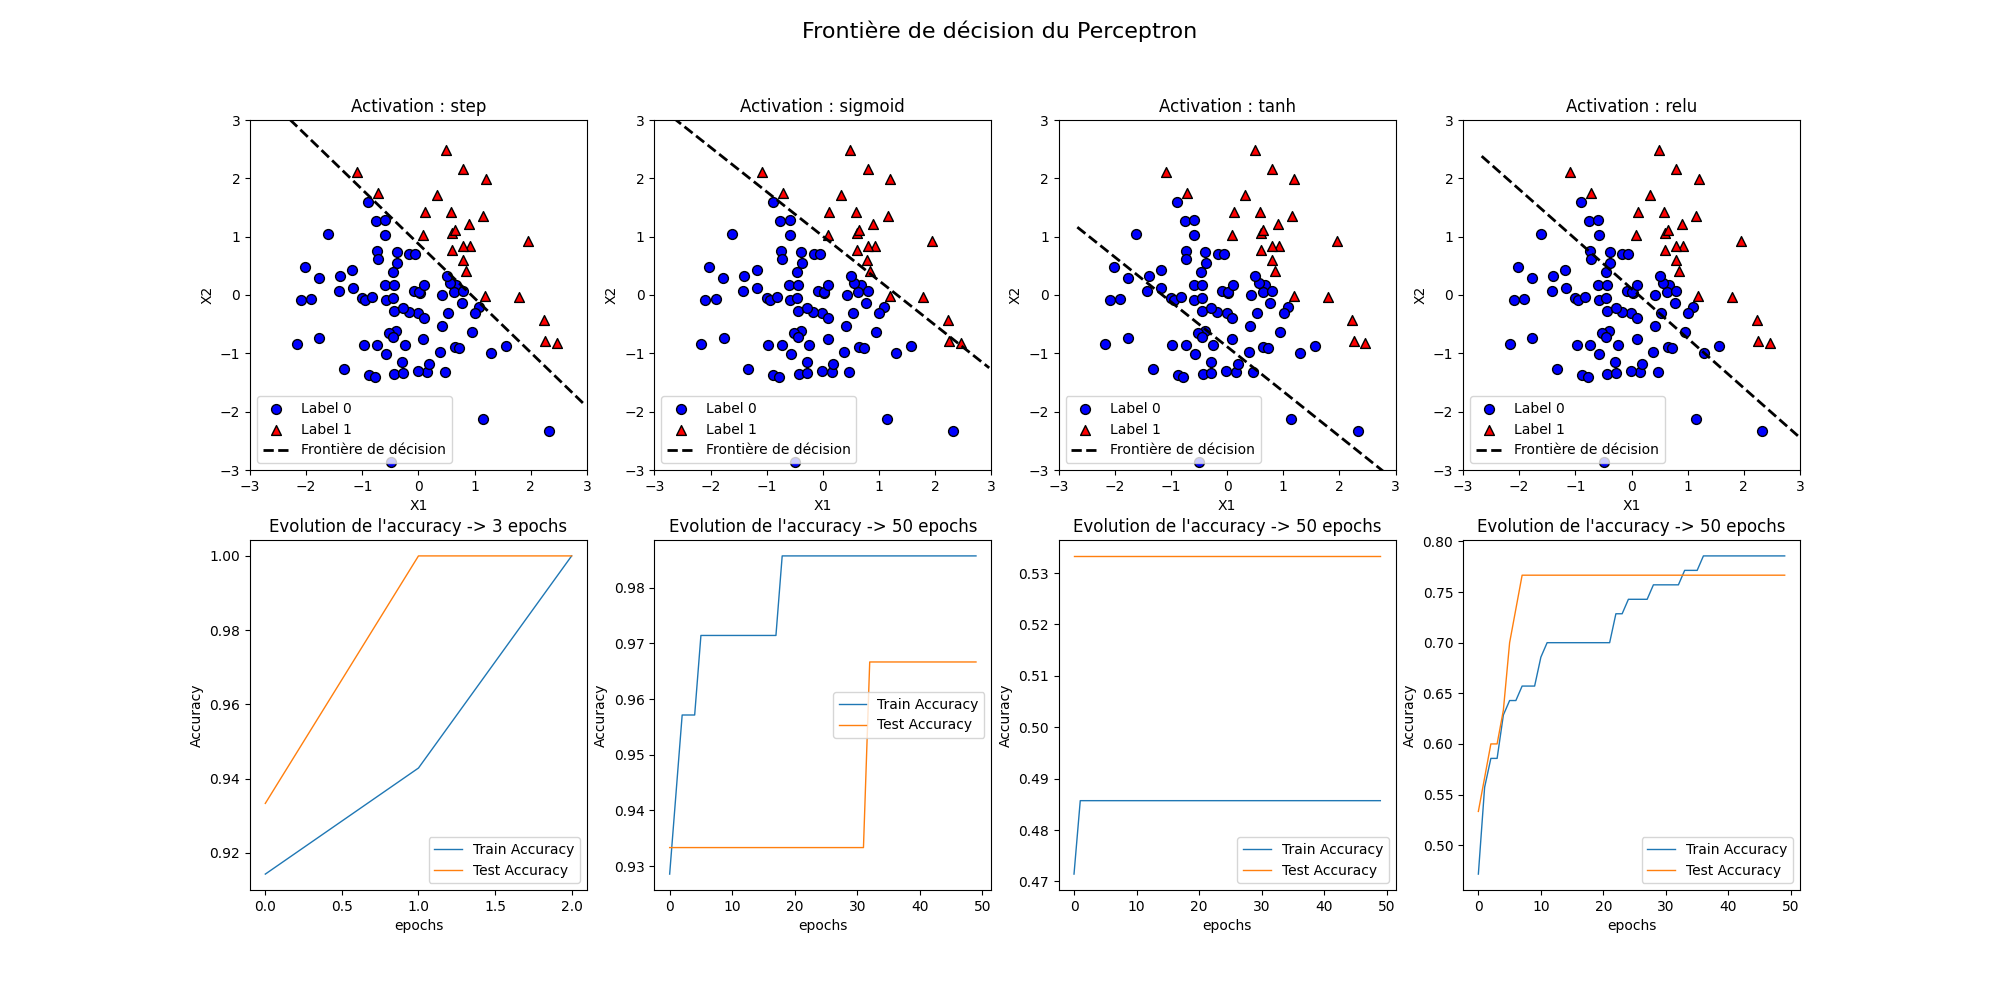
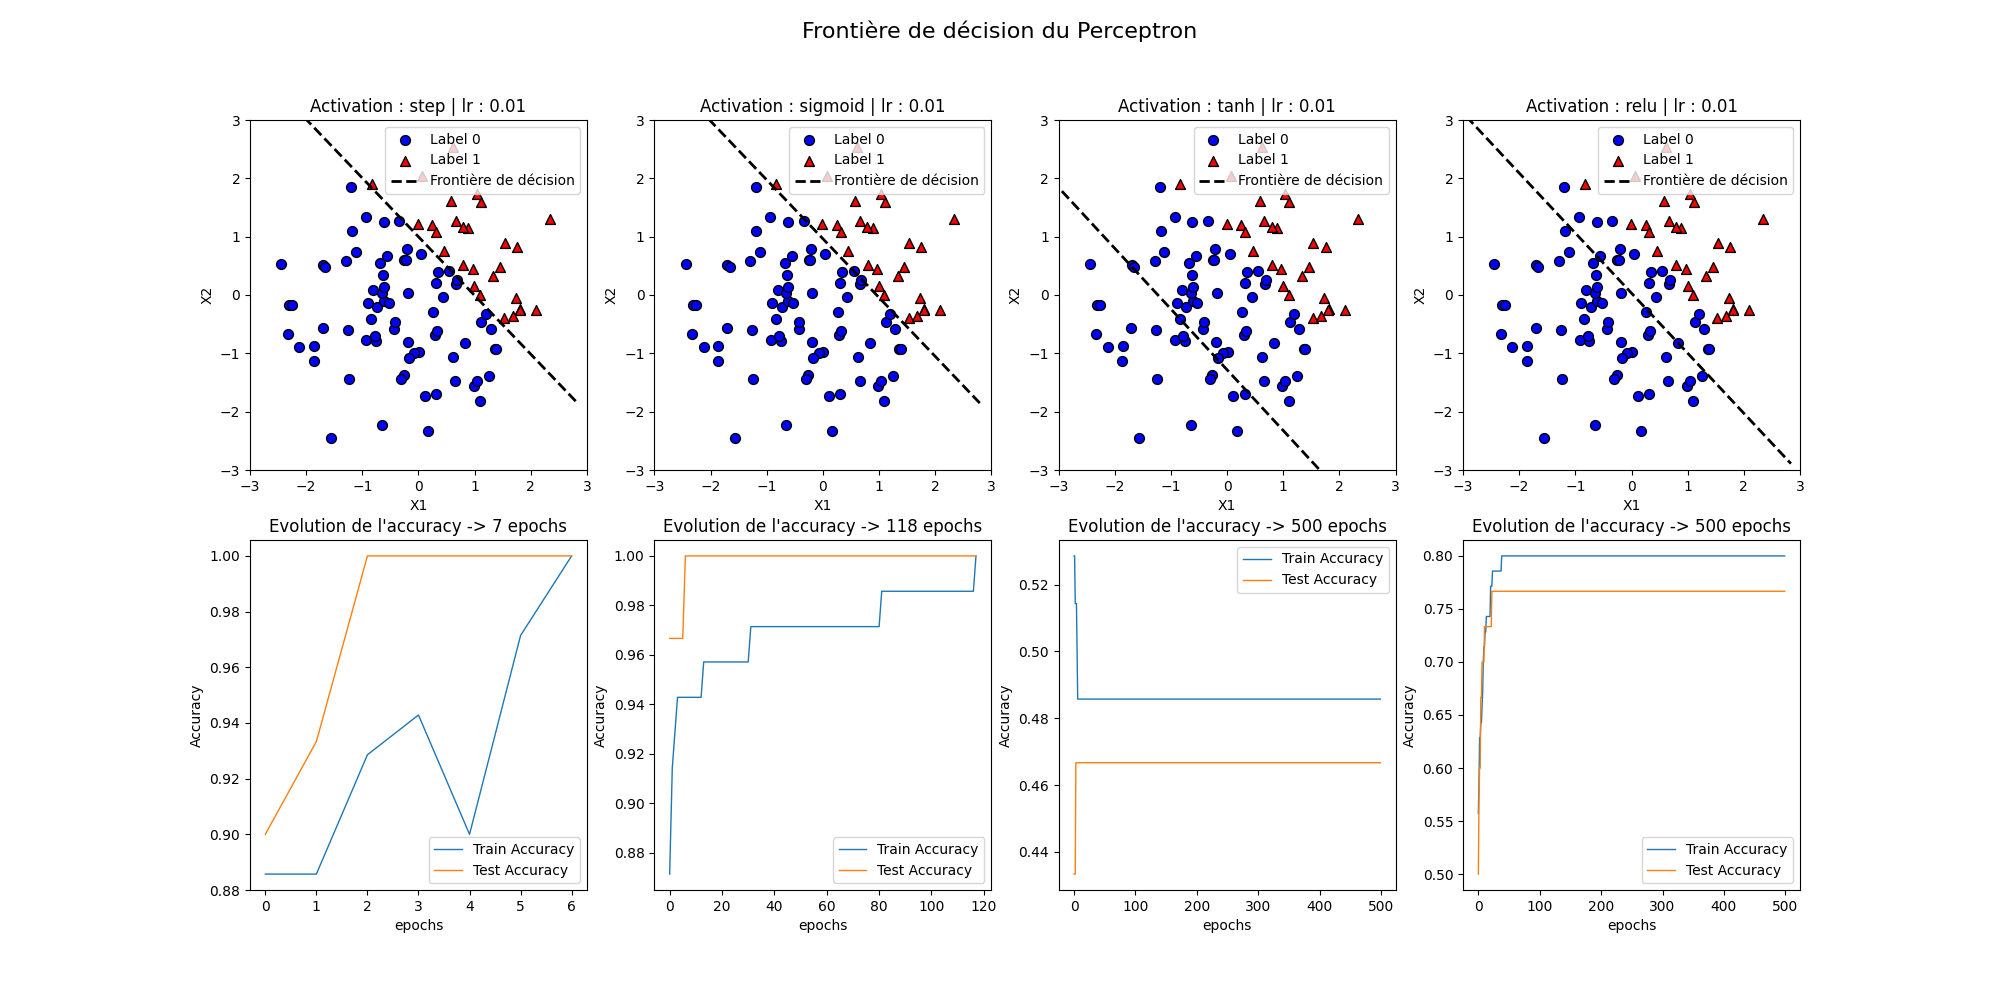
add iris

diff --git a/rendu_5/app.py b/rendu_5/app.py
@@ -13,9 +13,11 @@ from sklearn.preprocessing import StandardScaler
 
 X = np.random.randn(100, 2)
 y = np.where(X[:, 1] + X[:, 0] > 1, 1, 0)
-scaler = StandardScaler()
-X = scaler.fit_transform(X)
-epochs = 50
+#scaler = StandardScaler()
+#X = scaler.fit_transform(X)
+epochs = 500
+alpha = 0.01
+
 activations = ["step", "sigmoid", "tanh", "relu"]
 x_train, x_test, y_train, y_test = train_test_split(X, y, test_size=0.3, random_state=42)
 
@@ -26,7 +28,7 @@ index = 0
 # Perceptron seul
 for a in activations:
 
-    accuracies, test_accuracies = p_seul.fit(x_train, y_train, epochs=epochs, activation=a, alpha=0.01, x_test=x_test, y_test=y_test)
+    accuracies, test_accuracies = p_seul.fit(x_train, y_train, epochs=epochs, activation=a, alpha=alpha, x_test=x_test, y_test=y_test)
 
     w1, w2 = p_seul.W
     b = p_seul.B
@@ -44,7 +46,7 @@ for a in activations:
     axs[index].legend()
     axs[index].set_xlim([-3, 3]) 
     axs[index].set_ylim([-3, 3])
-    axs[index].set_title(f"Activation : {a}")
+    axs[index].set_title(f"Activation : {a} | lr : {alpha}")
 
     # Affichage graphe accuracy
     axs[index+4].plot(range(len(accuracies)), accuracies, linestyle='-', linewidth=1, label="Train Accuracy")
@@ -65,10 +67,11 @@ fig, axs = plt.subplots(ncols=4, nrows=2, figsize=(20, 10))
 axs = axs.flatten()
 index = 0
 epochs = 1000
+alpha = 0.1
 # Perceptron en serie
 for a in activations:
     p_serie = nrn.Neural_network(nb_hidden_layer=1, nb_neural_layer=1, activation=a)
-    train_accuracies, test_accuracies = p_serie.fit(x_train, y_train, epochs=epochs, alpha=0.05, x_test=x_test, y_test=y_test)
+    train_accuracies, test_accuracies = p_serie.fit(x_train, y_train, epochs=epochs, alpha=alpha, x_test=x_test, y_test=y_test)
 
     w1 = p_serie.W[-1][:, 0]
     b = p_serie.b[-1][0, 0]
@@ -93,7 +96,7 @@ for a in activations:
     axs[index].scatter(X[:, 0], X[:, 1], c=y, edgecolor='k')  # Points de données réels
     axs[index].set_xlabel("Feature 1")
     axs[index].set_ylabel("Feature 2")
-    axs[index].set_title(f"Activation : {a}")
+    axs[index].set_title(f"Activation : {a} | lr : {alpha}")
 
     # Affichage graphe accuracy
     axs[index+4].plot(range(len(train_accuracies)), train_accuracies, linestyle='-', linewidth=1, label="Train Accuracy")
@@ -113,10 +116,11 @@ fig, axs = plt.subplots(ncols=4, nrows=2, figsize=(20, 10))
 axs = axs.flatten()
 index = 0
 epochs = 1000
+alpha = 0.1
 # Perceptron en parallele
 for a in activations:
     p_para = nrn.Neural_network(nb_hidden_layer=1, nb_neural_layer=2, activation=a)
-    train_accuracies, test_accuracies = p_para.fit(x_train, y_train, epochs=epochs, alpha=0.05, x_test=x_test, y_test=y_test)
+    train_accuracies, test_accuracies = p_para.fit(x_train, y_train, epochs=epochs, alpha=alpha, x_test=x_test, y_test=y_test)
 
     w1 = p_para.W[-1][:, 0]
     b = p_para.b[-1][0, 0]
@@ -131,7 +135,7 @@ for a in activations:
 
     # Transformer la grille en une liste de points et faire des prédictions
     grid_points = np.c_[xx.ravel(), yy.ravel()]
-    Z = p_serie.predict(grid_points)  # On prédit les classes pour chaque point de la grille
+    Z = p_para.predict(grid_points)  # On prédit les classes pour chaque point de la grille
     
     # Reshape pour correspondre à la grille
     Z = Z.reshape(xx.shape)
@@ -141,7 +145,7 @@ for a in activations:
     axs[index].scatter(X[:, 0], X[:, 1], c=y, edgecolor='k')  # Points de données réels
     axs[index].set_xlabel("Feature 1")
     axs[index].set_ylabel("Feature 2")
-    axs[index].set_title(f"Activation : {a}")
+    axs[index].set_title(f"Activation : {a} | lr : {alpha}")
 
     # Affichage graphe accuracy
     axs[index+4].plot(range(len(train_accuracies)), train_accuracies, linestyle='-', linewidth=1, label="Train Accuracy")
@@ -188,93 +192,148 @@ pca = PCA(n_components=0.95)
 X_pca = pca.fit_transform(X_scaled)
 X = X_pca[:, :2]
 
-epochs = 10
+epochs = 1000
+alpha = 0.1
 
+
+x_train, x_test, y_train, y_test = train_test_split(X, y, test_size=0.3, random_state=42)
+
+p_seul = per.Perceptron()
+fig, axs = plt.subplots(ncols=4, nrows=2, figsize=(20, 10))
+axs = axs.flatten()
+index = 0
 # Perceptron seul
-p = per.Perceptron()
-accuracies = p.fit(X, y, epochs = epochs)
+for a in activations:
 
-w1, w2 = p.W 
-b = p.B
+    accuracies, test_accuracies = p_seul.fit(x_train, y_train, epochs=epochs, activation=a, alpha=alpha, x_test=x_test, y_test=y_test)
 
-# Définition des limites pour x1
-x1_vals = np.array([X[:, 0].min() - 0.5, X[:, 0].max() + 0.5])
+    w1, w2 = p_seul.W
+    b = p_seul.B
 
-# Calcul de x2 en fonction de x1
-x2_vals = -(b + w1 * x1_vals) / w2
+    # Affichage graphe Frontiere de decision
+    x1_vals = np.array([X[:, 0].min() - 0.5, X[:, 0].max() + 0.5])
+    x2_vals = -(b + w1 * x1_vals) / w2
 
+    axs[index].scatter(X[y == 0, 0], X[y == 0, 1], color='blue', edgecolor='k', marker='o', s=50, label='Label 0')
+    axs[index].scatter(X[y == 1, 0], X[y == 1, 1], color='red', edgecolor='k', marker='^', s=50, label='Label 1')
 
-plt.scatter(X[y == 0, 0], X[y == 0, 1], color='blue', edgecolor='k', marker='o', s=50, label='Label 0')
-plt.scatter(X[y == 1, 0], X[y == 1, 1], color='red', edgecolor='k', marker='^', s=50, label='Label 1')
+    axs[index].plot(x1_vals, x2_vals, 'k--', linewidth=2, label="Frontière de décision")
+    axs[index].set_xlabel("X1")
+    axs[index].set_ylabel("X2")
+    axs[index].legend()
+    axs[index].set_xlim([-3, 3]) 
+    axs[index].set_ylim([-3, 3])
+    axs[index].set_title(f"Activation : {a} | lr : {alpha}")
 
-plt.plot(x1_vals, x2_vals, 'k--', linewidth=2, label="Frontière de décision")
-plt.xlabel("X1")
-plt.ylabel("X2")
-plt.title("Frontière de décision du Perceptron")
-plt.legend()
-plt.savefig("rendu_5/img/perceptron.png", format="png")
-plt.show()
+    # Affichage graphe accuracy
+    axs[index+4].plot(range(len(accuracies)), accuracies, linestyle='-', linewidth=1, label="Train Accuracy")
+    axs[index+4].plot(range(len(test_accuracies)), test_accuracies, linestyle='-', linewidth=1, label="Test Accuracy")
+    axs[index+4].set_xlabel("epochs")
+    axs[index+4].set_ylabel("Accuracy")
+    axs[index+4].set_title(f"Evolution de l'accuracy -> {len(accuracies)} epochs")
+    axs[index+4].legend()
 
-# Affichage Accuracy evolution
-plt.plot(range(len(accuracies)), accuracies, linestyle='-', linewidth=1, label="Accuracy")
-plt.xlabel("epochs")
-plt.ylabel("Accuracy")
-plt.title(f"Evolution de l'accuracy -> {epochs} epochs")
-plt.legend()
-plt.savefig("rendu_5/img/accuracy.png", format="png")
-plt.show()
-
-# 2 Perceptron en series 
-X_new = p.predict_proba(X).reshape(-1, 1)
-p2 = per.Perceptron()
-p2.fit(X_new, y)
-
-plt.scatter(X_new[y == 0], y[y == 0], color='blue', edgecolor='k', marker='o', s=50, label='Label 0')
-plt.scatter(X_new[y == 1], y[y == 1], color='red', edgecolor='k', marker='^', s=50, label='Label 1')
-
-w0 = p2.W
-b = p2.B
-
-# Définition des limites pour x1
-x_val = -b / w0
-
-plt.axvline(x=x_val, color='red', linestyle='--', label="Frontière de décision")
-
-plt.xlabel("X1")
-plt.ylabel("X2")
-plt.title("Frontière de décision du Perceptron (serie de 2)")
-plt.legend()
-plt.savefig("rendu_5/img/perceptron_serie.png", format="png")
+    index += 1
+fig.suptitle("Frontière de décision du Perceptron", fontsize=16)
+plt.savefig("rendu_5/img/perceptron_simple_activations_iris.png", format="png")
 plt.show()
 
 
-# 2 Perceptron en parallele
-p1 = per.Perceptron()
-p2 = per.Perceptron()
-p3 = per.Perceptron()
-X_1, X_2, y_1, y_2 = train_test_split(X, y, test_size=0.5, random_state=42)
-p1.fit(X_1, y_1, epochs = epochs)
-p2.fit(X_2, y_2, epochs = epochs)
-p3.fit(np.c_[p1.predict_proba(X), p2.predict_proba(X)], y, epochs = epochs)
 
-w1, w2 = p3.W 
-b = p3.B
+fig, axs = plt.subplots(ncols=4, nrows=2, figsize=(20, 10))
+axs = axs.flatten()
+index = 0
+epochs = 1000
+alpha = 0.1
+# Perceptron en serie
+for a in activations:
+    p_serie = nrn.Neural_network(nb_hidden_layer=1, nb_neural_layer=1, activation=a)
+    train_accuracies, test_accuracies = p_serie.fit(x_train, y_train, epochs=epochs, alpha=alpha, x_test=x_test, y_test=y_test)
 
-# Définition des limites pour x1
-x1_vals = np.array([X[:, 0].min() - 0.5, X[:, 0].max() + 0.5])
+    w1 = p_serie.W[-1][:, 0]
+    b = p_serie.b[-1][0, 0]
 
-# Calcul de x2 en fonction de x1
-x2_vals = -(b + w1 * x1_vals) / w2
+    # Définir les limites de la grille
+    x_min, x_max = X[:, 0].min() - 1, X[:, 0].max() + 1
+    y_min, y_max = X[:, 1].min() - 1, X[:, 1].max() + 1
+    
+    # Créer une grille de points
+    xx, yy = np.meshgrid(np.linspace(x_min, x_max, 100), 
+                         np.linspace(y_min, y_max, 100))
+
+    # Transformer la grille en une liste de points et faire des prédictions
+    grid_points = np.c_[xx.ravel(), yy.ravel()]
+    Z = p_serie.predict(grid_points)  # On prédit les classes pour chaque point de la grille
+    
+    # Reshape pour correspondre à la grille
+    Z = Z.reshape(xx.shape)
+
+    # Affichage de la frontière de décision
+    axs[index].contourf(xx, yy, Z, alpha=0.3)  # Coloration des régions de décision
+    axs[index].scatter(X[:, 0], X[:, 1], c=y, edgecolor='k')  # Points de données réels
+    axs[index].set_xlabel("Feature 1")
+    axs[index].set_ylabel("Feature 2")
+    axs[index].set_title(f"Activation : {a} | lr : {alpha}")
+
+    # Affichage graphe accuracy
+    axs[index+4].plot(range(len(train_accuracies)), train_accuracies, linestyle='-', linewidth=1, label="Train Accuracy")
+    axs[index+4].plot(range(len(test_accuracies)), test_accuracies, linestyle='-', linewidth=1, label="Test Accuracy")
+    axs[index+4].set_xlabel("epochs")
+    axs[index+4].set_ylabel("Accuracy")
+    axs[index+4].set_title(f"Evolution de l'accuracy -> {len(train_accuracies)} epochs")
+    axs[index+4].legend()
+
+    index += 1
+fig.suptitle("Frontière de décision | 2 Perceptrons en serie", fontsize=16)
+plt.savefig("rendu_5/img/perceptron_serie_activations_iris.png", format="png")
+plt.show()
 
 
-plt.scatter(X[y == 0, 0], X[y == 0, 1], color='blue', edgecolor='k', marker='o', s=50, label='Label 0')
-plt.scatter(X[y == 1, 0], X[y == 1, 1], color='red', edgecolor='k', marker='^', s=50, label='Label 1')
+fig, axs = plt.subplots(ncols=4, nrows=2, figsize=(20, 10))
+axs = axs.flatten()
+index = 0
+epochs = 1000
+alpha = 0.1
+# Perceptron en parallele
+for a in activations:
+    p_para = nrn.Neural_network(nb_hidden_layer=1, nb_neural_layer=2, activation=a)
+    train_accuracies, test_accuracies = p_para.fit(x_train, y_train, epochs=epochs, alpha=alpha, x_test=x_test, y_test=y_test)
 
-plt.plot(x1_vals, x2_vals, 'k--', linewidth=2, label="Frontière de décision")
-plt.xlabel("X1")
-plt.ylabel("X2")
-plt.title("Frontière de décision de Perceptron 2 en parallele")
-plt.legend()
-plt.savefig("rendu_5/img/perceptron_parallele.png", format="png")
+    w1 = p_para.W[-1][:, 0]
+    b = p_para.b[-1][0, 0]
+
+    # Définir les limites de la grille
+    x_min, x_max = X[:, 0].min() - 1, X[:, 0].max() + 1
+    y_min, y_max = X[:, 1].min() - 1, X[:, 1].max() + 1
+    
+    # Créer une grille de points
+    xx, yy = np.meshgrid(np.linspace(x_min, x_max, 100), 
+                         np.linspace(y_min, y_max, 100))
+
+    # Transformer la grille en une liste de points et faire des prédictions
+    grid_points = np.c_[xx.ravel(), yy.ravel()]
+    Z = p_para.predict(grid_points)  # On prédit les classes pour chaque point de la grille
+    
+    # Reshape pour correspondre à la grille
+    Z = Z.reshape(xx.shape)
+
+    # Affichage de la frontière de décision
+    axs[index].contourf(xx, yy, Z, alpha=0.3)  # Coloration des régions de décision
+    axs[index].scatter(X[:, 0], X[:, 1], c=y, edgecolor='k')  # Points de données réels
+    axs[index].set_xlabel("Feature 1")
+    axs[index].set_ylabel("Feature 2")
+    axs[index].set_title(f"Activation : {a} | lr : {alpha}")
+
+    # Affichage graphe accuracy
+    axs[index+4].plot(range(len(train_accuracies)), train_accuracies, linestyle='-', linewidth=1, label="Train Accuracy")
+    axs[index+4].plot(range(len(test_accuracies)), test_accuracies, linestyle='-', linewidth=1, label="Test Accuracy")
+    axs[index+4].set_xlabel("epochs")
+    axs[index+4].set_ylabel("Accuracy")
+    axs[index+4].set_title(f"Evolution de l'accuracy -> {len(train_accuracies)} epochs")
+    axs[index+4].legend()
+
+    index += 1
+fig.suptitle("Frontière de décision | 2 Perceptrons en parallele", fontsize=16)
+plt.savefig("rendu_5/img/perceptron_parallele_activations_iris.png", format="png")
 plt.show()
 

diff --git a/rendu_5/utile/Neural_network.py b/rendu_5/utile/Neural_network.py
@@ -18,16 +18,19 @@ class Neural_network:
         self.activation_function = self.activation_functions[activation]
 
     def __initialisation(self, nb_parametres):
+        init = np.sqrt(1/nb_parametres)
+        if self.activation_function == self.relu:
+            init = np.sqrt(2/nb_parametres)
         if (self.nb_neural_layer > 0 or self.nb_hidden_layer > 0):
-            self.W.append(np.random.randn(nb_parametres, self.nb_neural_layer))  # première couche chachée
-            self.b.append(np.ones((1, self.nb_neural_layer))) # biais
+            self.W.append(np.random.randn(nb_parametres, self.nb_neural_layer) * init)  # première couche chachée
+            self.b.append(np.zeros((1, self.nb_neural_layer)) * init) # biais
             for _ in range(self.nb_hidden_layer - 1):
-                self.W.append(np.random.randn(self.nb_neural_layer, self.nb_neural_layer)) # autres couches cachées
-                self.b.append(np.ones((1, self.nb_neural_layer))) # biais
-            self.W.append(np.random.randn(self.nb_neural_layer, 1)) # neurone de sortie
+                self.W.append(np.random.randn(self.nb_neural_layer, self.nb_neural_layer) * init) # autres couches cachées
+                self.b.append(np.zeros((1, self.nb_neural_layer)) * init) # biais
+            self.W.append(np.random.randn(self.nb_neural_layer, 1) * init) # neurone de sortie
         else:
-            self.W.append(np.random.randn(nb_parametres, 1)) # neurone de sortie
-        self.b.append(np.ones((1, 1))) # biais
+            self.W.append(np.random.randn(nb_parametres, 1) * init) # neurone de sortie
+        self.b.append(np.zeros((1, 1)) * init) # biais
 
     def fit(self, X, y, alpha=0.01, epochs=1000, x_test=None, y_test=None):
         self.__initialisation(X.shape[1])
@@ -68,7 +71,7 @@ class Neural_network:
         A = []
         A.append(X)
         for i in range(len(self.W) - 1):
-            A.append(self.sigmoid(A[-1] @ self.W[i] + self.b[i]))
+            A.append(self.activation_function(A[-1] @ self.W[i] + self.b[i]))
         A.append(self.activation_function(A[-1] @ self.W[-1] + self.b[-1]))
         return A
     
@@ -88,7 +91,16 @@ class Neural_network:
         self.b[-1] -= alpha * 1/len(y) * np.sum(dZ, axis=0)
         for i in range(len(self.W) - 1, 0, -1):
             dA = dZ @ self.W[i].T
-            dZ = dA * (A[i] * (1 - A[i])) # (1 - A[i]) -> car sigmoid
+
+            if self.activation_function == self.sigmoid:
+                dZ = dA * (A[i] * (1 - A[i]))           # Dérivée sigmoid
+            elif self.activation_function == self.tanh:
+                dZ = dA * (1 - A[i]**2)                 # Dérivée tanh
+            elif self.activation_function == self.relu:
+                dZ = dA * (A[i] > 0)                    # Dérivée ReLU
+            elif self.activation_function == self.step:
+                dZ = np.zeros_like(dA) 
+
             self.W[i-1] -= alpha * 1/len(y) * A[i-1].T @ dZ
             self.b[i-1] -= alpha * 1/len(y) * np.sum(dZ, axis=0)
 
